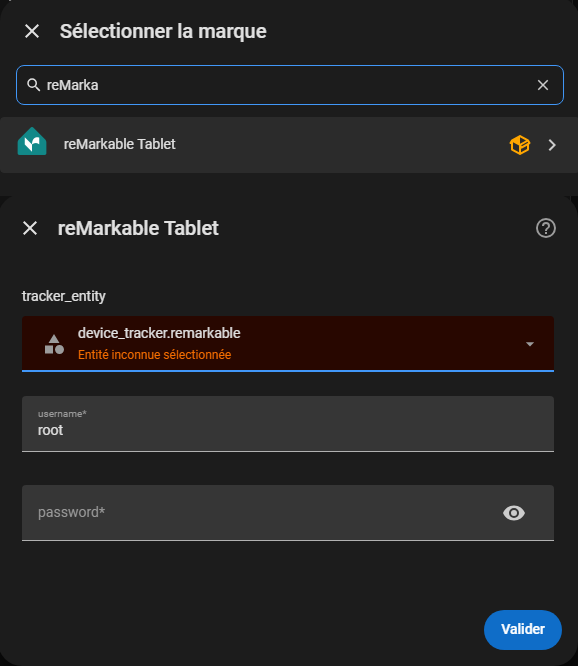
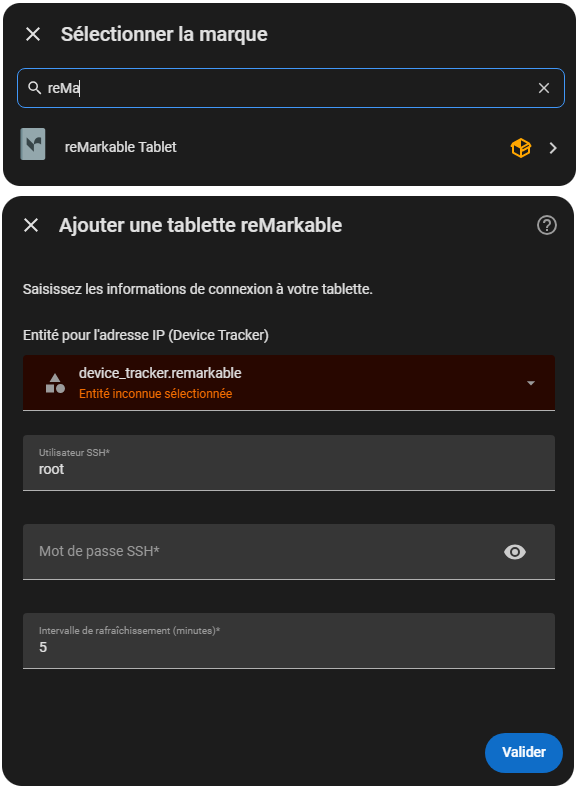
Update docs

diff --git a/README.md b/README.md
@@ -5,12 +5,13 @@
 
 
 
-# reMarkable status integration on Home Assistant
+# reMarkable status unofficial Home Assistant integration
 
 ![](logo.png)
 
-Home Assistant integration to track tour reMarkable status.  
-Developped by Aurélien Tomassini (ooree23).
+Home Assistant integration to track your reMarkable tablet status.  
+Developped by Aurélien Tomassini (ooree23).  
+This is a custom integration, not official, nor related to reMarkable team.
 
 Tested with reMarkable 1, on Home Assistant 2026.11.0.
 
